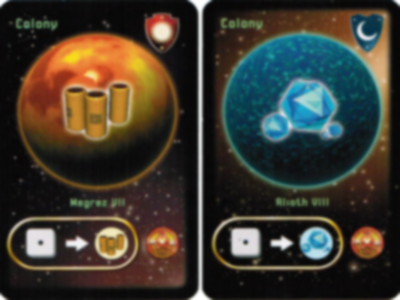
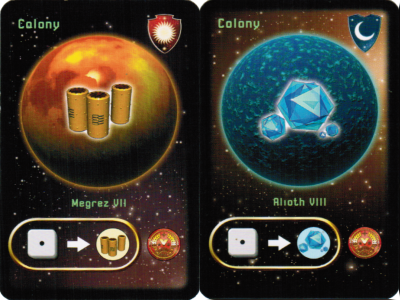
Hero/Friend of the People implemented
Victory/Friend/Fame points update as game plays.

diff --git a/Player.h b/Player.h
@@ -14,12 +14,13 @@
 #include "Zone.h"
 #include "ColonyCard.h"
 #include "TradeCard.h"
+#include <iostream>
 
 enum Icons{ science, ore, fuel, tradeGood, wheat, carbon, astro, player, vicPt, frdPt, fmPt };
 const int STATNUM = 11;
-const std::string ICNFLE = "icons.png";		//  Source file name for trade/colony ships
+const std::string ICNFLE = "playerIcons.png";		//  Source file name for trade/colony ships
 const std::string SYM1FLE = "symbolsSmall.png";	//  Source file for Victory/Fame/Friendship Icons
-const std::string SY21FLE = "symbols2.png";		//  Source file for Hero/Friend of the People
+const std::string FRIENDHERO = "FriendHeroIcons.png";		//  Source file for Hero/Friend of the People
 const std::string SYMBFLE = "symbolsBig.png";
 const std::string RICNFLE = "ResourceIcons.png";	//  Source file for Resource File Icons
 const sf::Vector2f CSPOS = sf::Vector2f(20, 550);				//  Screen Position for Small Scale Colony Icon
@@ -35,9 +36,11 @@ private:
 	Zone<TradeCard>* tradeZone;		//  Trade Zone 
 	Icon** statistics;				//  Array for the statistic Icons
 	bool smallDisplay;
+	bool friendOfThePeople;
+	bool heroOfThePeople;
 
 public:
-	Player(ResourceManager<sf::Texture> &txtMgr, ResourceManager<sf::Font> &fntMgr, std::string name = "EMPTY", int num = -99);
+	Player(ResourceManager<sf::Texture> &txtMgr, ResourceManager<sf::Font> &fntMgr, std::string name, int num);
 	~Player();
 
 	// getters and setters
@@ -46,11 +49,16 @@ public:
 	Zone<TradeCard>* getTradeZone() const 	{	return tradeZone;	}
 	int getStatQty(int num){ return statistics[num]->getQty(); }
 	void setStatQty(int stat, int num){ statistics[stat]->setQty(num); }
-
-
+	
 	//  Misc Inline Functions
 	void updatePlayerIcon();
 	void draw(sf::RenderWindow &gWindow);
+	int getPlyrNum() const { return statistics[player]->getQty(); }
+	bool isHero() const { return heroOfThePeople; }
+	bool isFriend() const { return friendOfThePeople; }
+	
+	void addFamePt(){ statistics[fmPt]->setQty(statistics[fmPt]->getQty() + 1); }
+	void addFrdPt(){ statistics[frdPt]->setQty(statistics[frdPt]->getQty() + 1); }
 	void updateIcon(int type);
 	void expandColonyZone();
 	void expandTradeZone();
@@ -65,7 +73,29 @@ public:
 			return true;
 		statusUpdate = "Can not afford ";
 		return false;
-	}	
+	}		
+	void addVicPt(){
+		statistics[vicPt]->setQty(statistics[vicPt]->getQty() + 1); 
+		if (statistics[vicPt]->getQty() >= 10)
+			std::cout << "winner!!!!!!!!!!!!\n";
+
+	}
+	void toggleFriend(bool toggle)
+	{ 
+		friendOfThePeople = toggle; 
+		if (toggle)
+			statistics[vicPt]->setQty(statistics[vicPt]->getQty() + 1);
+		else
+			statistics[vicPt]->setQty(statistics[vicPt]->getQty() - 1);
+	}
+	void toggleHero(bool toggle)
+	{ 
+		friendOfThePeople = toggle; 
+		if (toggle)
+			statistics[vicPt]->setQty(statistics[vicPt]->getQty() + 1);
+		else
+			statistics[vicPt]->setQty(statistics[vicPt]->getQty() - 1);
+	}
 	
 };
 #endif // PLAYER_H

diff --git a/Game.h b/Game.h
@@ -22,7 +22,7 @@ const std::string SDIEFLE = "flightdie.png";
 const std::string TRDICN = "TradeMenuIcons.png";
 
 enum menuOptions { trdW, colIt, conFly, endFl };
-enum phases{ production, flight, trades, build };
+enum phases{ production, flight, tradeBuild };
 enum tradeIcons{plus, minus, check, cancel};
 
 const int FLAGNUM = 10;
@@ -59,6 +59,8 @@ private:
 	Icon *errorString;					//  Error Text String
 	Icon *tradeProgressString;			//  In Progress/Complete/Cancelled
 	Icon **menu;						//  
+	Icon *friendPeople;
+	Icon *heroPeople;
 	std::string statusUpdate;			//  Catches errors from called functions
 	int errorTimer;
 	int actionNum;						//  Current Action Num
@@ -113,8 +115,7 @@ private:
 	void productionPhaseListener(sf::RenderWindow &gWindow);
 	void flightPhaseListener(sf::RenderWindow &gWindow, int tempType);
 	void preFlightListener(sf::RenderWindow &gWindow, int &tempType);
-	void tradePhaseListener(sf::RenderWindow &gWindow);
-	void buildPhaseListener(sf::RenderWindow &gWindow);
+	void tradeBuildPhaseListener(sf::RenderWindow &gWindow);
 	void tradeMenuListener(sf::RenderWindow &gWindow, int tempType);
 	void drawFlightMenu(sf::RenderWindow &gWindow);
 	void updateFlightMenu(sf::RenderWindow &gWindow);
@@ -123,7 +124,9 @@ private:
 	void initTradeMenu(sf::RenderWindow &gWindow, int tempType);
 	bool tradeIconsTargeted(sf::RenderWindow &gWindow);
 	bool menuOptionTargeted(sf::RenderWindow &gWindow, int &num);
-	bool Game::resourcesAvailable(int resAvail[]);
+	bool resourcesAvailable(int resAvail[]);
+	void updateFriendOfThePeople(std::string &statusUpdate);
+	void updateHeroOfThePeople(std::string &statusUpdate);
 
 };
 
